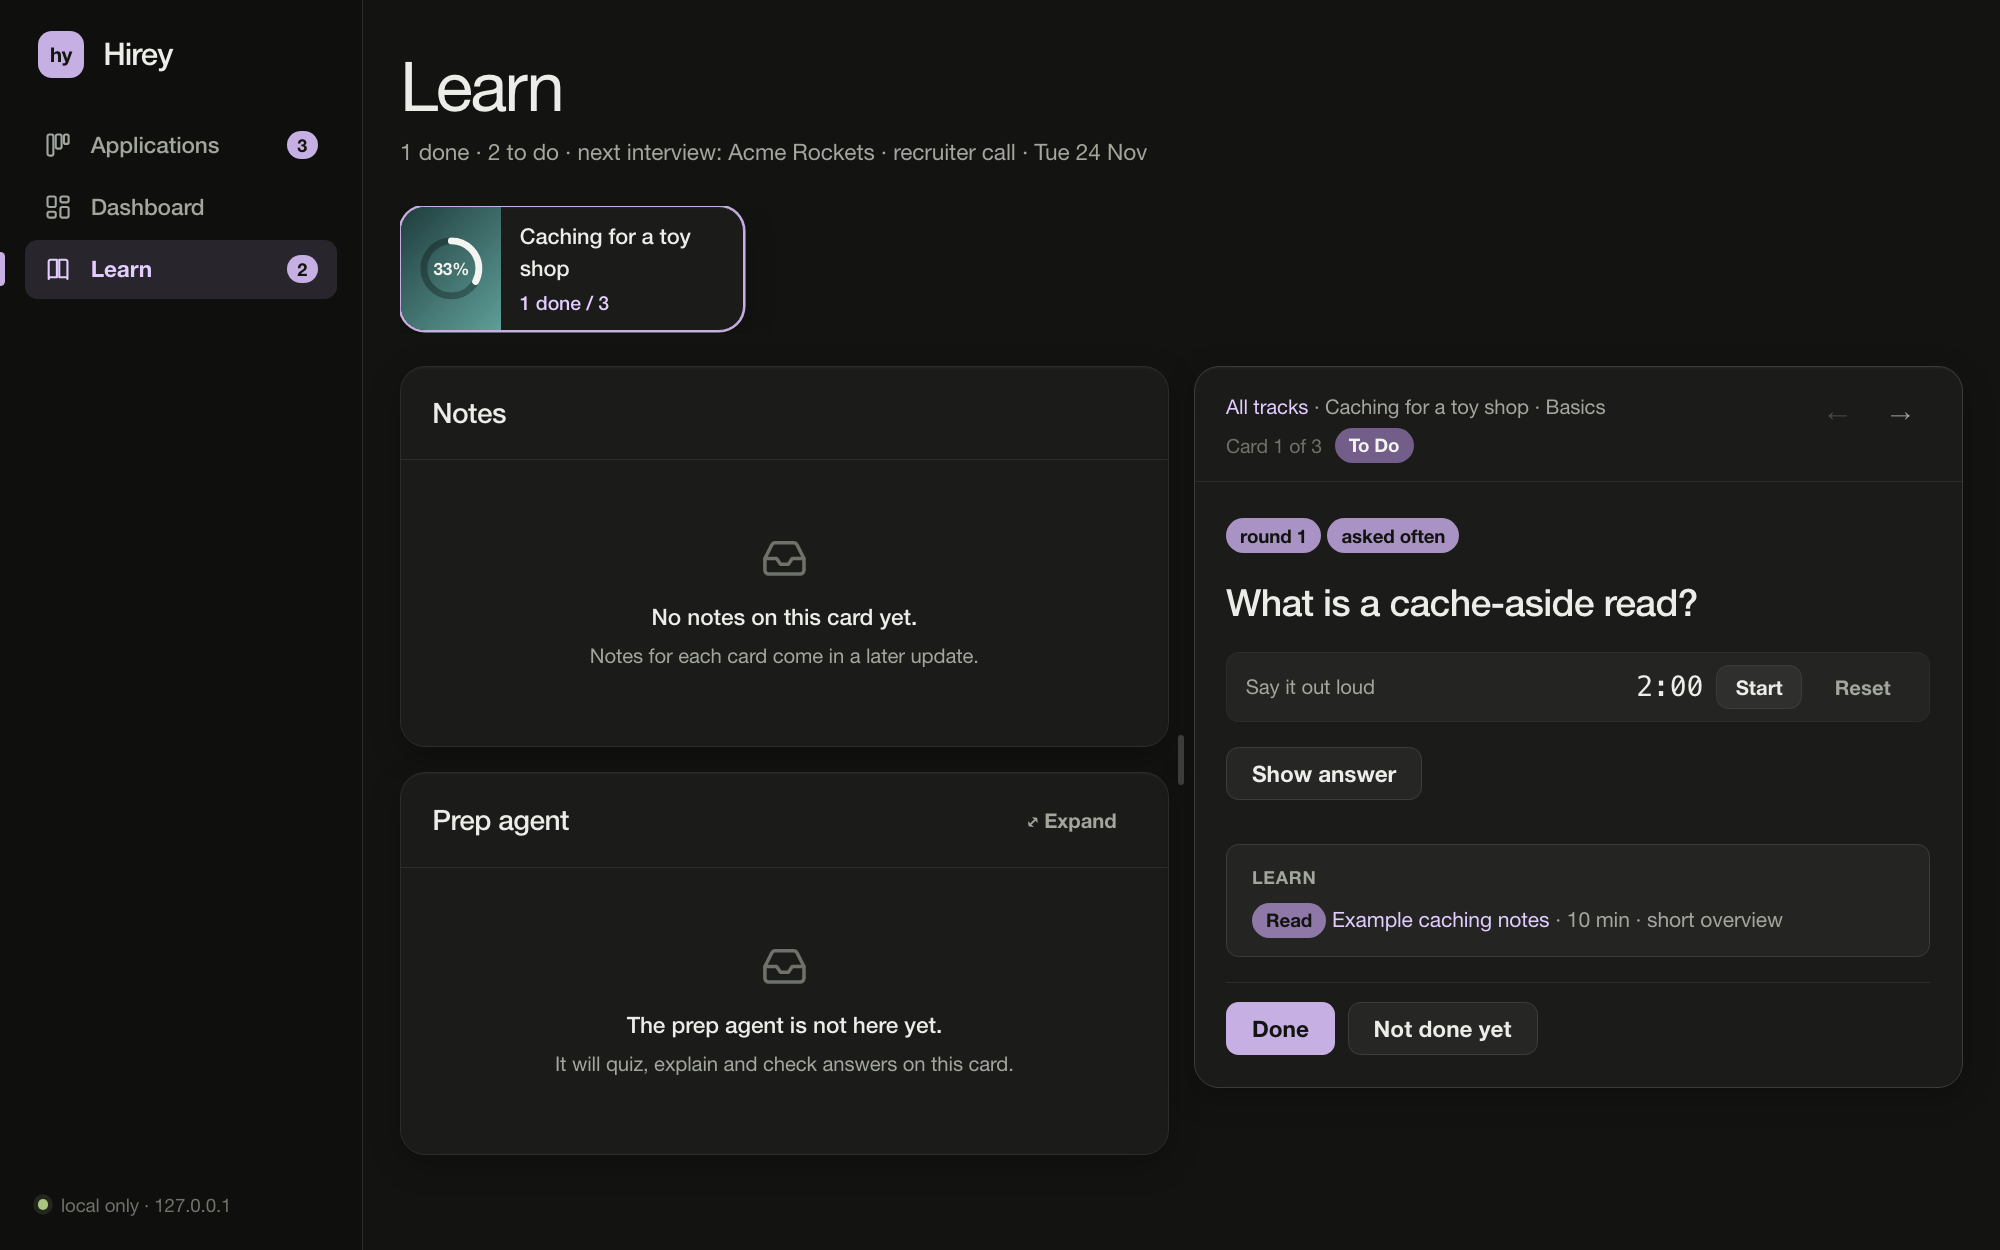
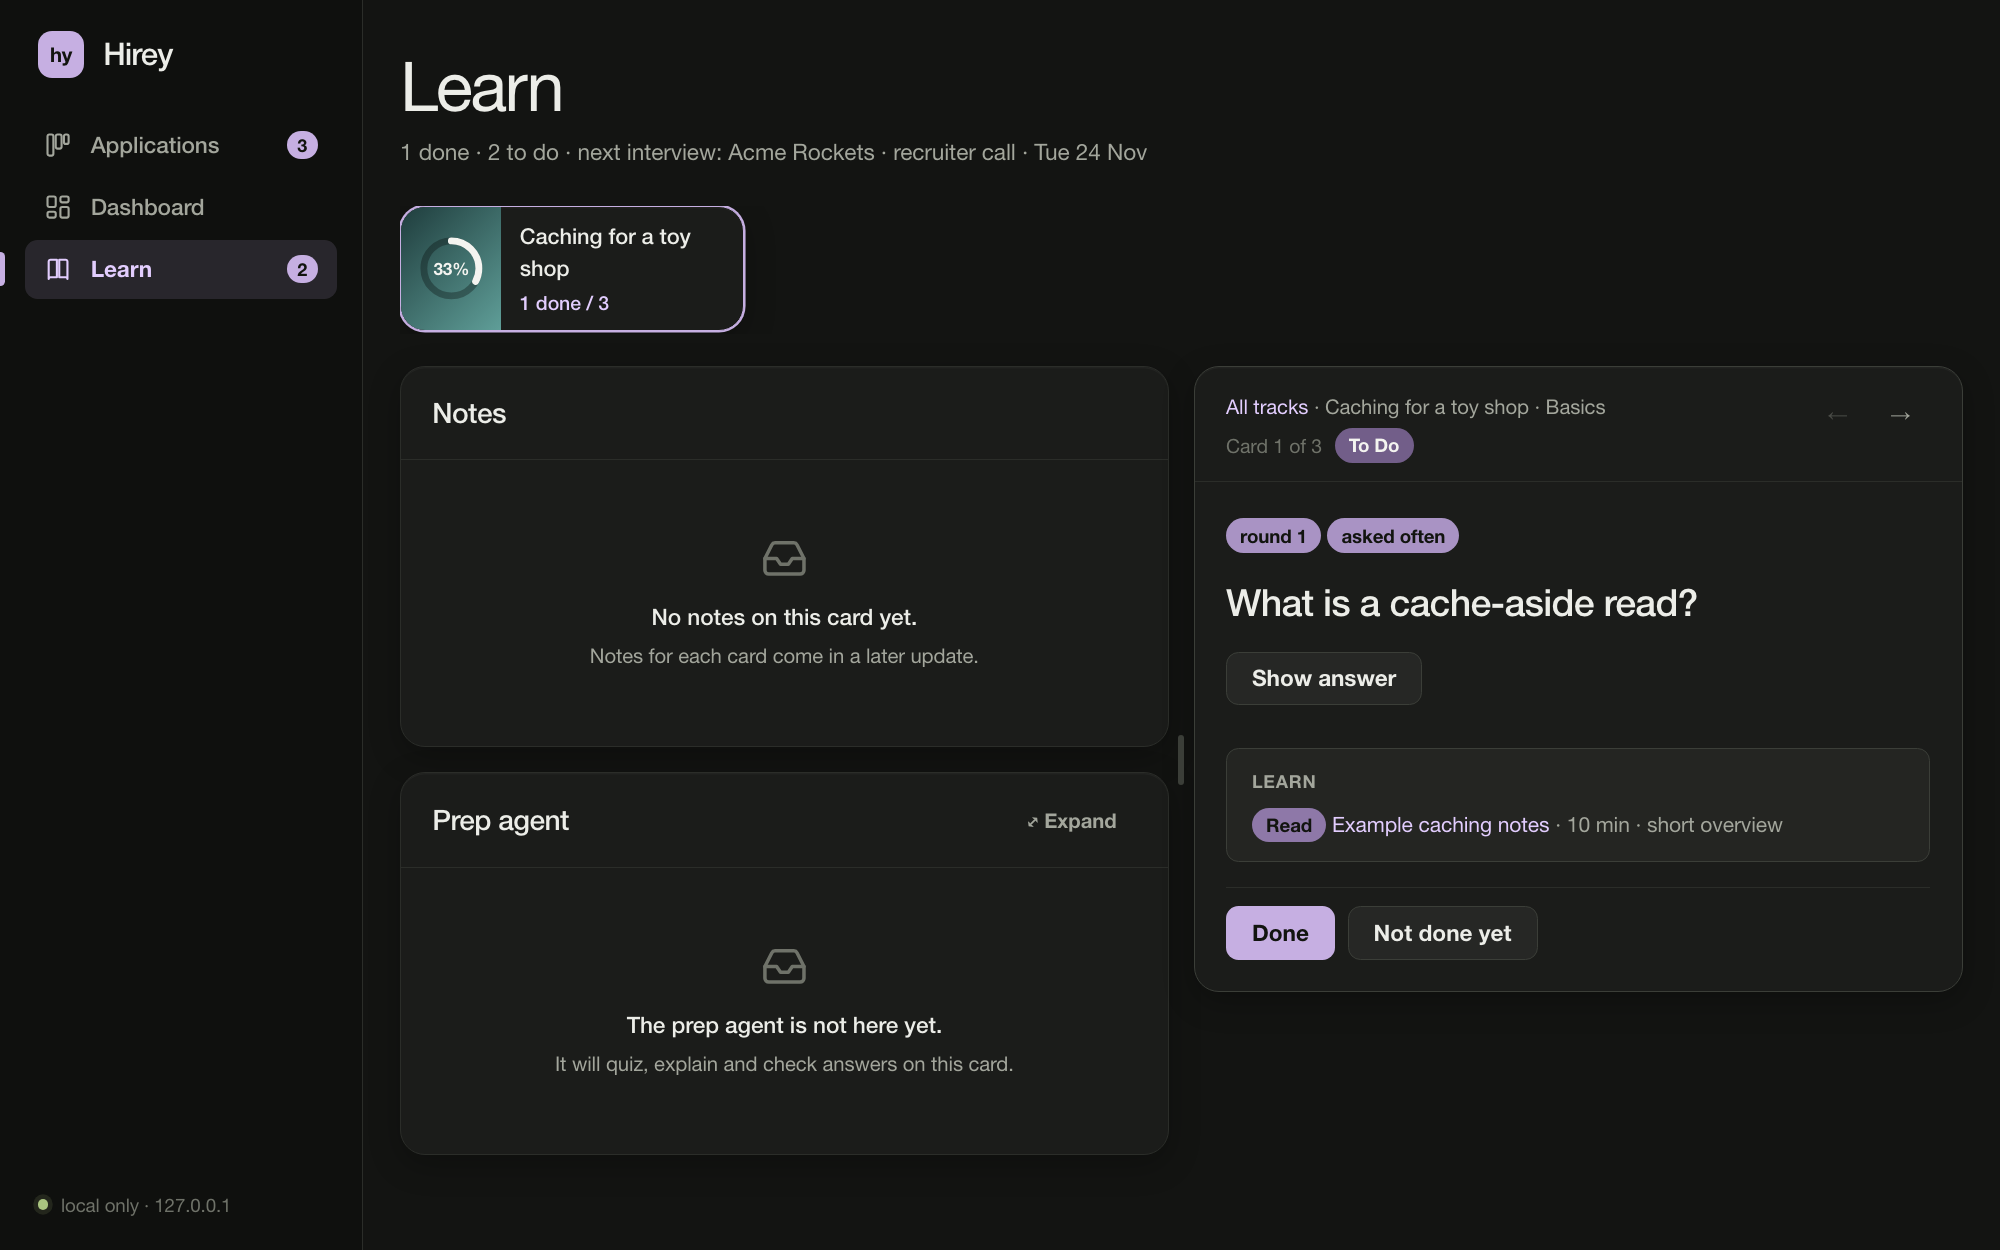
Learn: remove the say-it-out-loud timer from the card view

Changed region(s): [[0.589, 0.5928, 0.899, 0.8424], [0.837, 0.5304, 0.961, 0.5616], [0.62, 0.5304, 0.713, 0.5616]]

diff --git a/prep/static/app.js b/prep/static/app.js
@@ -450,46 +450,8 @@
   });
 
   // --- Learn: the card view ------------------------------------------------------------------
-  // The "say it out loud" timer counts down from data-timer seconds (Start / Pause, Reset); at zero
-  // it stops and says "Time". ⤢ Expand on the Prep agent folds Notes away; the choice is kept per
-  // browser. Both stay hidden without the script.
-  const timer = document.querySelector(".timer[data-timer]");
-  if (timer) {
-    const total = Number(timer.dataset.timer) || 120;
-    const shown = timer.querySelector(".timer-time");
-    const toggle = timer.querySelector("[data-timer-toggle]");
-    let left = total;
-    let tick = 0;
-    const paintTimer = () => {
-      shown.textContent = left > 0 ? `${Math.floor(left / 60)}:${String(left % 60).padStart(2, "0")}` : "Time";
-      timer.classList.toggle("is-over", left <= 0);
-    };
-    const pause = () => {
-      clearInterval(tick);
-      tick = 0;
-      timer.classList.remove("is-running");
-      toggle.textContent = left > 0 && left < total ? "Resume" : "Start";
-    };
-    toggle.addEventListener("click", () => {
-      if (tick) { pause(); return; }
-      if (left <= 0) left = total;
-      timer.classList.add("is-running");
-      toggle.textContent = "Pause";
-      tick = setInterval(() => {
-        left -= 1;
-        paintTimer();
-        if (left <= 0) pause();
-      }, 1000);
-      paintTimer();
-    });
-    timer.querySelector("[data-timer-reset]").addEventListener("click", () => {
-      left = total;
-      pause();
-      paintTimer();
-    });
-    timer.hidden = false;
-  }
-
+  // ⤢ Expand on the Prep agent folds Notes away; the choice is kept per browser. Hidden without the
+  // script.
   const expand = document.querySelector("[data-learn-expand]");
   if (expand) {
     const EXPAND_KEY = "learn-agent-expanded";

diff --git a/prep/static/style.css b/prep/static/style.css
@@ -774,13 +774,6 @@ main:has(.learn-view) { max-width: 1880px; }
 .learn-card-body { display: grid; gap: var(--space-4); padding: var(--space-5); }
 .learn-q { margin: 0; font-family: var(--font-display); font-size: 24px; font-weight: 500; line-height: 1.3;
   white-space: pre-line; overflow-wrap: anywhere; }
-.timer { display: flex; flex-wrap: wrap; align-items: center; gap: var(--space-2); padding: var(--space-2) var(--space-3);
-  border: 1px solid var(--border); border-radius: var(--radius-sm); background: var(--surface-2); }
-.timer[hidden] { display: none; }
-.timer-label { color: var(--text-muted); font-size: 13px; margin-right: auto; }
-.timer-time { font-family: var(--mono); font-size: 18px; font-variant-numeric: tabular-nums; min-width: 4ch; text-align: right; }
-.timer.is-running .timer-time { color: var(--accent-text); }
-.timer.is-over .timer-time { color: var(--warning); }
 .learn-answer { display: grid; gap: var(--space-3); }
 .learn-answer > summary { list-style: none; width: fit-content; }
 .learn-answer > summary::-webkit-details-marker { display: none; }

diff --git a/prep/web.py b/prep/web.py
@@ -790,7 +790,6 @@ def practice_section(conn: sqlite3.Connection) -> str:
 # /learn: the tracks grid. /learn?card=ID (or ?track=SLUG, its first card to do): the card view, with
 # Notes and the Prep agent on the left (placeholders for now), a divider, and the card on the right.
 
-TIMER_SECONDS = 120  # "say it out loud": two minutes per answer
 EXPAND_ICON = "⤢"
 
 
@@ -894,10 +893,6 @@ def _learn_card(conn: sqlite3.Connection, card: dict) -> str:
     head = (f'<header class="learn-card-head"><div><p class="learn-where"><a href="/learn">All tracks</a> · {where}</p>'
             f'<p class="learn-sub">Card {i + 1} of {len(ids)} {status}</p></div><nav class="learn-nav" '
             f'aria-label="Cards">{nav}</nav></header>')
-    timer = (f'<div class="timer" data-timer="{TIMER_SECONDS}" hidden><span class="timer-label">Say it out loud</span>'
-             f'<span class="timer-time" role="timer" aria-live="off">{TIMER_SECONDS // 60}:{TIMER_SECONDS % 60:02d}</span>'
-             '<button type="button" class="btn btn-secondary btn-sm" data-timer-toggle>Start</button>'
-             '<button type="button" class="btn btn-ghost btn-sm" data-timer-reset>Reset</button></div>')
     follow = "".join(f"<li>{h(f)}</li>" for f in card["follow_ups"])
     sources = "".join(
         f'<li>{_badge(s["kind"], "s6")} {_link(s.get("url"), s["title"])}'
@@ -917,7 +912,7 @@ def _learn_card(conn: sqlite3.Connection, card: dict) -> str:
         for path, label, variant in (("/learn/done", "Done", "primary"), ("/learn/undo", "Not done yet", "secondary")))
     return (f'<section class="learn-card" id="learn-card" aria-labelledby="learn-q">{head}<div class="learn-card-body">'
             + (f'<div class="chips">{tags}</div>' if tags else "")
-            + f'<h2 class="learn-q" id="learn-q">{h(card["front"])}</h2>{timer}{answer}{learn_box}'
+            + f'<h2 class="learn-q" id="learn-q">{h(card["front"])}</h2>{answer}{learn_box}'
             f'<div class="learn-actions">{buttons}</div></div></section>')
 
 

diff --git a/tests/test_web.py b/tests/test_web.py
@@ -1233,7 +1233,7 @@ class LearnPageTest(WebTestCase):
         self.assertIn("data-learn-expand", body)
         self.assertIn("What is a cache-aside read?", body)
         self.assertIn("Card 1 of 3", body)
-        self.assertIn('data-timer="120"', body)
+        self.assertNotIn("timer", body)  # no timer for now
         self.assertIn("Show answer", body)
         self.assertIn("<li>Read the cache first</li>", body)  # the back as Markdown
         self.assertIn("What happens on a cold start?", body)

diff --git a/docs/how-it-works.md b/docs/how-it-works.md
@@ -631,7 +631,7 @@ that changes nothing until posted, and every form posts normally and redirects.
 |------|-------|--------|
 | Dashboard `/dashboard` | tiles (applied in the last 7 days vs `weekly_target`, total, reply rate + warning), a donut of applications by status, a treemap of tiers split by status, a stage-conversion funnel, applications per week (columns with a target line), last 8 weeks; then Practice: tiles for sessions (mock · real) and open gaps (CV fit gaps included), and a table of scores by area (`stats.practice`): a 1–5 trend line per area (`charts.trend`), session count, first, latest and change; session file paths are never shown. Apart from Practice it counts applications only, never tasks: tasks are a to-do list on the Applications page. `/progress` redirects here. The nav shows the number of new offers next to Applications on every page | — |
 | New offers `/?view=offers` (the old Job Offers page) | the left column's other view on Applications (the panel, Agent box and layout below are shared). Open getjo jobs (`getjo.matches`, step 19) at or above `score` (1–10, default 7; unscored jobs never pass) that are neither tracked nor decided (`db.excluded_job_ids`; decided jobs live in the pipeline), newest day first (`first_seen`), then highest score (`web.offer_rows`). Filters in the list header, a GET form: `score`, `loc` (repeatable: london, remote, other — from `getjo.location_tags`: word "london"; words remote/anywhere/work from home/wfh; neither or empty is other; a job can be both) and `q` (company or role, case-insensitive substring). `skipped=1` (Show skipped / Hide skipped) lists the skipped jobs instead, at any score, open or closed, latest skip first, with the reason, the comment and Undo skip; a skipped job getjo has dropped shows from its snapshot. Rows: score, company (a link to the offer panel), role with the chips (closed, may be closed, expires in N days) and location; the whole row opens the panel. `job=<getjo id>` opens the offer panel (a tracked job opens its application's panel instead; an unknown id is ignored): company, role, score, location, seen date, the posting link (http(s) only), the chips; Interested · Skip (a skipped job: "Skipped · reason" and Undo skip); the "Ask about this" tick; and the job brief, or while there is none the description from getjo made readable (step 21; `getjo.job_description`, read-only, escaped; a job getjo no longer has says so). Each row starts with its ☐ tick (step 15). The switch's count and the nav count are the open new offers at the score in effect, ignoring location and search (default 7, as `/today`). A message instead of the list if getjo's database is missing or unreadable; the pipeline still works. `/offers` and `/matches` redirect here with their query mapped (`company`/`role` to `q`, `show=skipped` to `skipped=1`, `show=interested\|applied` to the pipeline's `stage`). `GET /offers/skip?job_id=…` is the no-script skip form | POST `/offers/interested`, `/offers/uninterested`, `/offers/skip`, `/offers/unskip`, `/offers/brief` (Write brief / Redo brief, step 21; also on an application's panel), and `/offers/apply` (also the old `/matches/apply`; no button, kept for old forms). Interested and `/offers/apply` redirect to `/?app=ID` (JSON: `redirect`, `app_id`, `created`), built from the application id only; skip and unskip return to the `return` URL |
-| Learn `/learn` | "X done · Y to do" (`learn.counts`) and the next interview on or after today (`db.next_interview`: company, stage, day) as the subtitle; the nav's Learn badge is the cards to do on every page. Without `card`/`track`: a grid of tracks (`learn.list_tracks`): a cover gradient class per `learn.TRACK_COVERS` key, a progress ring (SVG with `pathLength` and `stroke-dasharray` attributes, no inline style), title, subtitle, chapters · cards, "X done / Y". `track=SLUG\|ID` opens the track's first card to do, else its first card (`learn.first_card`); a track with no cards shows the grid with a notice. `card=ID`: the tracks again as a compact row (`.tracks-row`, the card's track `.is-current` with `aria-current`), then the card view (`web._learn_view`): the left column holds placeholder Notes and Prep agent cards (Learn 3 and 4), a divider (`web._split_handle`, the Applications code in `app.js` with `data-split-key="learn-split"`), and the card: track · chapter, "Card N of M" with ← → links, tags, the question (escaped, line breaks kept), the 2-minute timer (`data-timer`, hidden until `app.js` runs it), Show answer (a `<details>`: the back through `prep/md.py` without links, and the follow-ups), the Learn box outside the fold (sources with `_link`: http(s) only, new tab; left out when a card has none), and Done / Not done yet forms. ⤢ Expand toggles `.is-agent-wide` (Notes hidden), kept as `learn-agent-expanded` in `localStorage`. An unknown or malformed id is a 404 | POST `/learn/done` (`card_id`: marks it done; redirects to the next card to do in the track after it, wrapping round (`learn.next_todo`), or to `/learn` with "Every card in that track is done"), `/learn/undo` (`card_id`: back to do; the card stays open). JSON gives `redirect` |
+| Learn `/learn` | "X done · Y to do" (`learn.counts`) and the next interview on or after today (`db.next_interview`: company, stage, day) as the subtitle; the nav's Learn badge is the cards to do on every page. Without `card`/`track`: a grid of tracks (`learn.list_tracks`): a cover gradient class per `learn.TRACK_COVERS` key, a progress ring (SVG with `pathLength` and `stroke-dasharray` attributes, no inline style), title, subtitle, chapters · cards, "X done / Y". `track=SLUG\|ID` opens the track's first card to do, else its first card (`learn.first_card`); a track with no cards shows the grid with a notice. `card=ID`: the tracks again as a compact row (`.tracks-row`, the card's track `.is-current` with `aria-current`), then the card view (`web._learn_view`): the left column holds placeholder Notes and Prep agent cards (Learn 3 and 4), a divider (`web._split_handle`, the Applications code in `app.js` with `data-split-key="learn-split"`), and the card: track · chapter, "Card N of M" with ← → links, tags, the question (escaped, line breaks kept), Show answer (a `<details>`: the back through `prep/md.py` without links, and the follow-ups), the Learn box outside the fold (sources with `_link`: http(s) only, new tab; left out when a card has none), and Done / Not done yet forms. ⤢ Expand toggles `.is-agent-wide` (Notes hidden), kept as `learn-agent-expanded` in `localStorage`. An unknown or malformed id is a 404 | POST `/learn/done` (`card_id`: marks it done; redirects to the next card to do in the track after it, wrapping round (`learn.next_todo`), or to `/learn` with "Every card in that track is done"), `/learn/undo` (`card_id`: back to do; the card stays open). JSON gives `redirect` |
 | Research file `/research/file?app=ID&kind=research\|cv_fit\|tailor[&v=N]` | the application's company profile, CV fit file or tailored CV (the latest, or version N), read-only: front matter as a table (any pay/salary key left out) and the body as minimal Markdown (headings, lists, paragraphs, all escaped). Only a path recorded in prep.db that resolves inside `private_dir` is read; anything else (no record, no `private_dir`, a path outside it) is a 404. A missing file shows "File missing" | — |
 | Tailored CV PDF `/research/pdf?app=ID&v=N` | the PDF beside tailored version N (`cvpdf.pdf_path`), inline as `application/pdf`. Only for a version recorded in prep.db whose `.pdf` resolves inside `private_dir` and exists; anything else is a 404. Sent with its own headers (`PDF_HEADERS`: `frame-ancestors 'none'`, nosniff, no-store) | — |
 | My CV `/?cv=1` | the master CV panel (step 20), opened by **My CV** in the page header; `cv=1` wins over `app`/`job` and a row link clears it. Skills as chips per theme, cv.md rendered, History (vN, time, note, current badge, Open `v=N`, Compare `compare=N` as a line diff against cv.md, Restore) | POST `/cv/restore` (`version`; JSON `{version, previous}`, Undo restores `previous`) |

diff --git a/docs/usage.md b/docs/usage.md
@@ -129,7 +129,7 @@ charts are server-rendered SVG):
   left (placeholders for now), the card on the right, with the same divider as Applications (its
   width kept per browser on its own). **⤢ Expand** on the Prep agent folds Notes away, remembered
   per browser. The card: its track and chapter, "Card N of M" with ← → to the neighbours, tags, the
-  question, a 2-minute **Say it out loud** timer (Start / Pause, Reset), **Show answer** (the key
+  question, **Show answer** (the key
   points and likely follow-ups), the **Learn** box under it, always in view (the sources to watch or
   read, the preparation material; links open in a new tab), and **Done** /
   **Not done yet**. Done marks the card done and opens the next card to do in the track (after the

diff --git a/README.md b/README.md
@@ -26,7 +26,7 @@ WeasyPrint, renders the tailored CV PDF), 601 unit tests.
 |---|---|---|
 | ![Pipeline list with the selected application](docs/screenshots/applications.png) | ![Agent box comparing two ticked jobs](docs/screenshots/agent-box.png) | ![Dashboard charts](docs/screenshots/dashboard.png) |
 
-| Learn: a card with the timer |
+| Learn: a card and its tracks |
 |---|
 | ![Learn card view with Notes and Prep agent placeholders](docs/screenshots/learn.png) |
 
